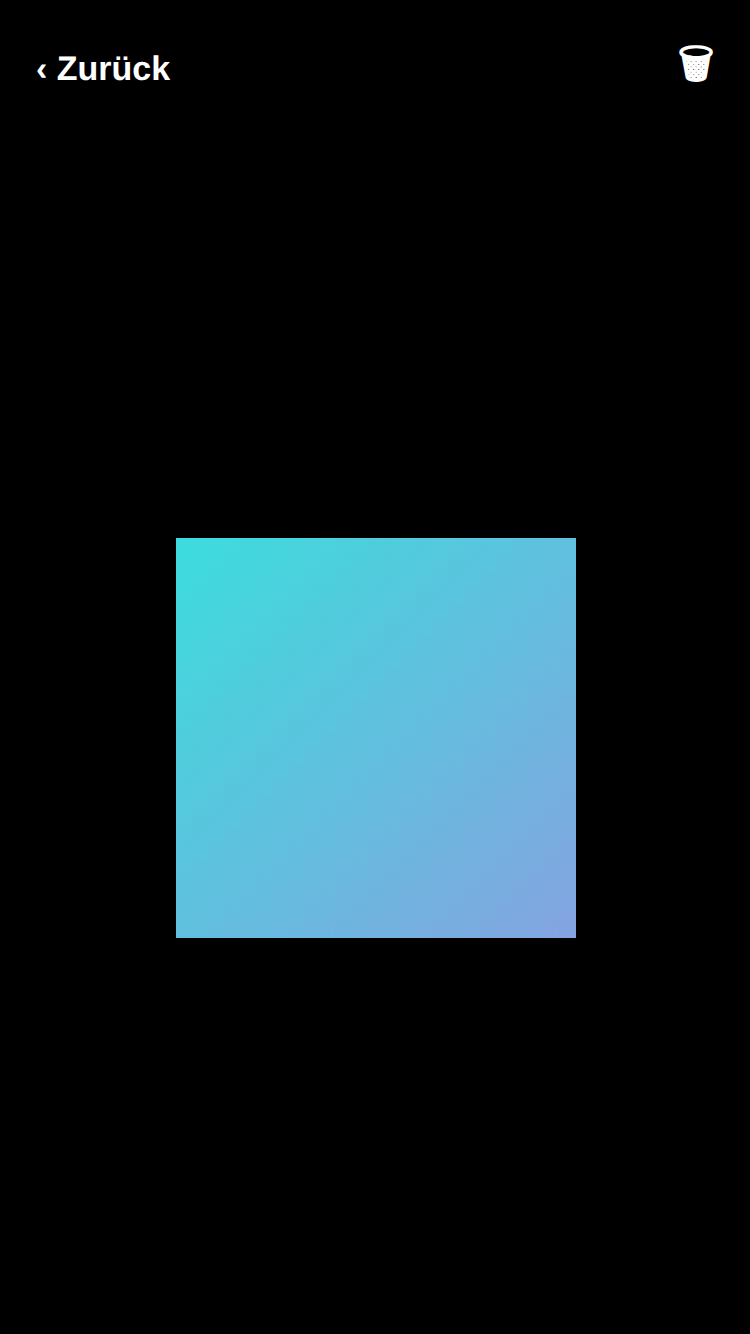
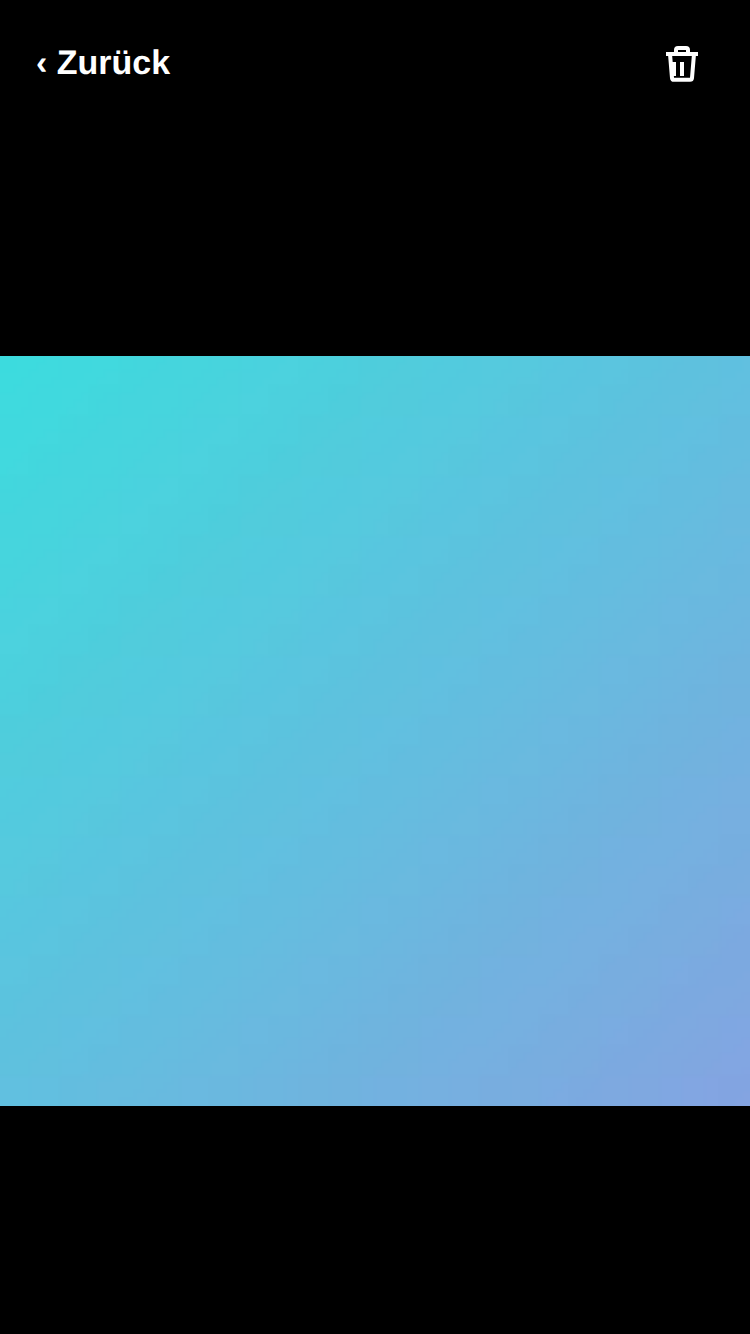
fix(2b): Draft v13 Meta, Notizen, Pin-Badge, Sheet & Viewer
- Meta-Zeile einzeilig mit Ellipsis, 11.5px/700
- Notiztypografie und Kamera-Pin-Badge
- Notiz-Textarea und Viewer-Papierkorb-SVG
- SW vacrecap-v8, Screenshots 12–15 neu

diff --git a/css/styles.css b/css/styles.css
@@ -1260,16 +1260,17 @@ body {
 
 .pinb .cb {
   position: absolute;
-  right: -5px;
-  bottom: -4px;
-  width: 16px;
-  height: 16px;
+  right: -6px;
+  bottom: -5px;
+  width: 18px;
+  height: 18px;
   border-radius: 50%;
   background: #1f4fa0;
-  border: 1.5px solid #fff;
+  border: 2px solid #fff;
   display: flex;
   align-items: center;
   justify-content: center;
+  box-sizing: border-box;
 }
 
 .oc__body {
@@ -1283,6 +1284,11 @@ body {
   align-items: flex-start;
 }
 
+.oc__head-text {
+  flex: 1;
+  min-width: 0;
+}
+
 .oc__title {
   margin: 0;
   font-size: 15.5px;
@@ -1291,10 +1297,13 @@ body {
 }
 
 .oc__meta {
-  font-size: 12px;
-  font-weight: 800;
-  color: #5b6b7a;
+  font-size: 11.5px;
+  font-weight: 700;
+  color: #5a6b7c;
   margin-top: 2px;
+  white-space: nowrap;
+  overflow: hidden;
+  text-overflow: ellipsis;
 }
 
 .qa {
@@ -1329,7 +1338,7 @@ body {
 
 .nr {
   display: flex;
-  gap: 7px;
+  gap: 6px;
   align-items: flex-start;
 }
 
@@ -1348,6 +1357,7 @@ body {
 .nr__text {
   font-size: 12.8px;
   line-height: 1.36;
+  font-weight: 400;
   color: #2b3946;
   display: -webkit-box;
   -webkit-line-clamp: 2;
@@ -1361,7 +1371,10 @@ body {
   padding: 0;
   text-align: left;
   cursor: pointer;
-  font: inherit;
+  font-family: inherit;
+  font-size: 12.8px;
+  line-height: 1.36;
+  font-weight: 400;
   width: 100%;
 }
 
@@ -1513,7 +1526,12 @@ body {
 }
 
 .media-viewer__delete {
-  font-size: 20px;
+  display: inline-flex;
+  align-items: center;
+  justify-content: center;
+  width: 40px;
+  height: 40px;
+  padding: 0;
 }
 
 .media-viewer__stage {
@@ -1525,23 +1543,40 @@ body {
   touch-action: pan-y;
 }
 
-.media-viewer__img,
-.media-viewer__video {
+.media-viewer__img {
+  width: 100%;
   max-width: 100%;
-  max-height: 100%;
+  max-height: calc(100% - 120px);
   object-fit: contain;
 }
 
+.media-viewer__video {
+  width: 100%;
+  max-width: 100%;
+  max-height: calc(100% - 120px);
+  object-fit: contain;
+}
+
+.sheet--note textarea,
 .field textarea {
   width: 100%;
   min-height: 120px;
   font-size: 16px;
   line-height: 1.4;
-  border-radius: 10px;
-  border: 1px solid #c5d4e0;
-  padding: 10px 12px;
-  resize: vertical;
+  color: #2b3946;
+  border-radius: 14px;
+  border: 1.5px solid #cfd9e6;
+  padding: 12px;
+  resize: none;
   font-family: inherit;
+  outline: none;
+  box-sizing: border-box;
+}
+
+.sheet--note textarea:focus,
+.field textarea:focus {
+  border-color: #0066b3;
+  box-shadow: 0 0 0 3px rgba(0, 102, 179, 0.15);
 }
 
 .soft-sheet__text {

diff --git a/js/ui-place-list.js b/js/ui-place-list.js
@@ -9,6 +9,7 @@ const PIN_SVG = `<svg width="19" height="19" viewBox="0 0 32 32" fill="none" ari
 
 const ICON_EDIT = `<svg width="16" height="16" viewBox="0 0 24 24" fill="none" stroke="currentColor" stroke-width="2" aria-hidden="true"><path d="M4 20h4L19 9l-4-4L4 16z"/></svg>`;
 const ICON_CAM = `<svg width="16" height="16" viewBox="0 0 24 24" fill="none" stroke="currentColor" stroke-width="2" aria-hidden="true"><path d="M4 8h3l2-3h6l2 3h3v11H4z"/><circle cx="12" cy="13" r="3.5"/></svg>`;
+const PIN_CAM_BADGE = `<svg width="12" height="12" viewBox="0 0 24 24" fill="none" stroke="#fff" stroke-width="2" aria-hidden="true"><path d="M4 8h3l2-3h6l2 3h3v11H4z"/><circle cx="12" cy="13" r="3.5"/></svg>`;
 const ICON_NOTE = `<svg width="12" height="12" viewBox="0 0 24 24" fill="none" stroke="currentColor" stroke-width="2" aria-hidden="true"><path d="M4 20h4L19 9l-4-4L4 16z"/></svg>`;
 const PLAY_SVG = `<svg class="tile__play" width="14" height="14" viewBox="0 0 24 24" fill="#fff" aria-hidden="true"><path d="M8 5v14l11-7z"/></svg>`;
 
@@ -64,11 +65,11 @@ export function renderPlaceListHtml(items, { selectedId, notesExpanded, thumbUrl
         <article class="oc${selected ? " oc--selected" : ""}${dim ? " oc--dim" : ""}" data-place-id="${place.id}">
           <div class="pinb${selected ? " pinb--selected" : ""}">
             ${PIN_SVG}
-            ${hasMedia ? '<span class="cb" aria-hidden="true"><svg width="10" height="10" viewBox="0 0 24 24" fill="none" stroke="#fff" stroke-width="2"><path d="M4 8h3l2-3h6l2 3h3v11H4z"/></svg></span>' : ""}
+            ${hasMedia ? `<span class="cb" aria-hidden="true">${PIN_CAM_BADGE}</span>` : ""}
           </div>
           <div class="oc__body">
             <div class="oc__head">
-              <div>
+              <div class="oc__head-text">
                 <h4 class="oc__title">${escapeHtml(place.name)}</h4>
                 <div class="oc__meta">${escapeHtml(meta)}</div>
               </div>

diff --git a/js/ui-media-viewer.js b/js/ui-media-viewer.js
@@ -43,7 +43,11 @@ export function openMediaViewer(mediaItems, startId, { onChanged }) {
       <div class="media-viewer" data-testid="media-viewer">
         <header class="media-viewer__bar">
           <button type="button" class="media-viewer__back" data-action="close" data-testid="media-viewer-close">‹ Zurück</button>
-          <button type="button" class="media-viewer__delete" data-action="delete" aria-label="Löschen">🗑</button>
+          <button type="button" class="media-viewer__delete" data-action="delete" aria-label="Löschen">
+            <svg width="24" height="24" viewBox="0 0 24 24" fill="none" stroke="currentColor" stroke-width="2" aria-hidden="true">
+              <path d="M4 7h16M9 7V5a1 1 0 0 1 1-1h4a1 1 0 0 1 1 1v2m-7 4v7m4-7v7M6 7l1 12a1 1 0 0 0 1 .9h8a1 1 0 0 0 1-.9L18 7"/>
+            </svg>
+          </button>
         </header>
         <div class="media-viewer__stage" data-role="stage">
           ${body}

diff --git a/sw.js b/sw.js
@@ -1,4 +1,4 @@
-const CACHE_VERSION = "vacrecap-v7";
+const CACHE_VERSION = "vacrecap-v8";
 const ASSETS = [
   "./",
   "./index.html",
